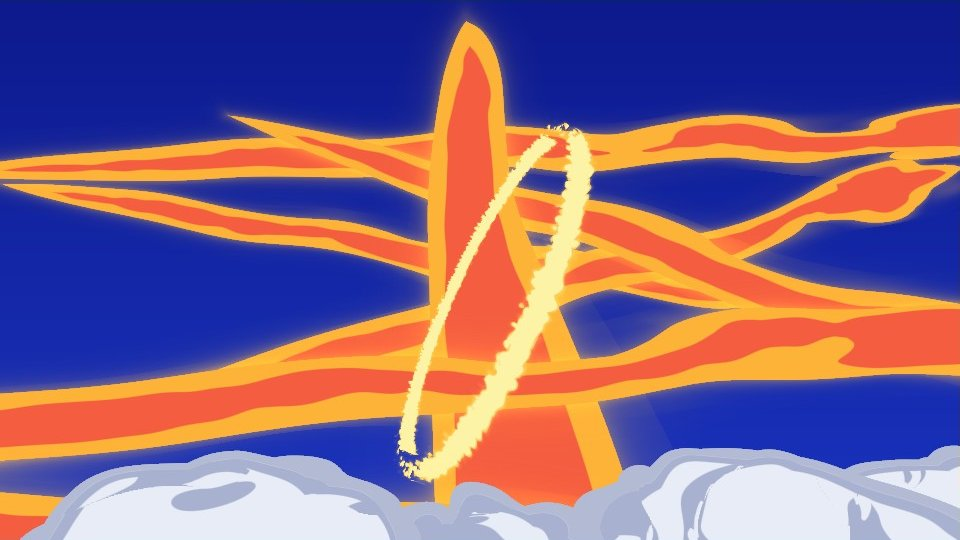
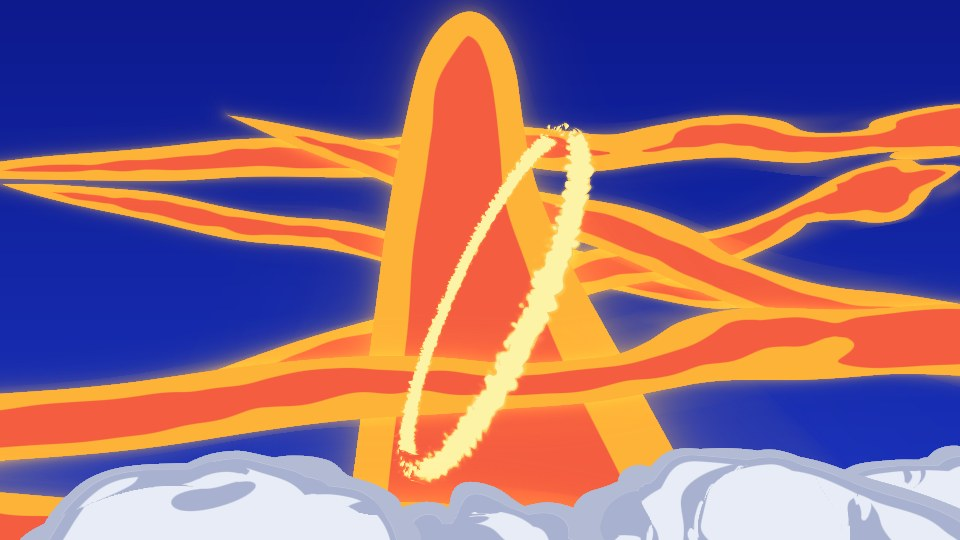
Mera anime: St. Elmo fino con lenguas hacia atrás, filo del muro de Kyōkaen con lenguas de lado, fuego del cuerpo más pegado y columna del Hiken más ancha
Claude-Session: https://claude.ai/code/session_01TTf7fnrStK2iXDsozaVCTJ

Changed region(s): [[0.3438, 0.0, 0.6875, 0.6815], [0.5938, 0.7111, 0.7812, 0.9185], [0.3125, 0.7407, 0.5, 0.9481]]

diff --git a/docs/estilo-anime.md b/docs/estilo-anime.md
@@ -119,7 +119,7 @@ Paleta de cada forma cuando `VolStyle.y` es 0: bola 2 (el sol, 6), puño 1, colu
   bajan hasta el suelo en llamas: en los 2,5 últimos bloques de cada lado (y nunca más de 0,45 del medio largo del
   muro entero) la altura cae en rampa recta hasta casi nada, así el lado se ve inclinado y en llamas, como el filo del
   muro en el 2:46 (con la rampa curva, que caía de golpe al final, el lado de un muro alto se veía como un corte
-  vertical; y con una rampa larga en un muro corto, el muro entero era un triángulo). Si `VolStyle.z` es 0, el tramo se dibuja como un muro entero él solo. No hace
+  vertical; y con una rampa larga en un muro corto, el muro entero era un triángulo). Además el filo no es una raya: las lenguas del lado llegan hasta el extremo y entre una y otra el filo queda hasta 1,6 bloques más adentro (nunca más de 0,18 del medio largo), con crestas que suben, y abajo el muro se mete un poco (0,08 por bloque bajo el 85 % del alto, nunca más de 0,10 del medio largo), así el lado se inclina hacia fuera al subir y saca lenguas de lado como en el 2:46 (antes, visto de frente, el lado de un muro alto era un corte recto de arriba abajo); ). Más allá del extremo no queda nada (antes, una tira dorada a ras de suelo). Si `VolStyle.z` es 0, el tramo se dibuja como un muro entero él solo. No hace
   falta que los tramos se monten: cada uno llega justo hasta su vecino. Visto de cerca (2:44, con cada vuelta de
   0,9 bloques ocupando más de 0,16 radianes desde la cámara, es decir a menos de unos 5 bloques), las láminas de
   fuera llevan además otra tanda de contornos más menudos y quebrados, como rayos pálidos sobre el dorado, y las
@@ -153,17 +153,18 @@ Paleta de cada forma cuando `VolStyle.y` es 0: bola 2 (el sol, 6), puño 1, colu
   volumen: es un dibujo plano en una lámina que contiene el eje del chorro y mira a la cámara. Una cuña dorada que
   sale de la mano con el grosor `prm.z` (en partes del final), se abre deprisa al principio y luego casi igual hasta un
 radio entero (1 − (1 − v)^2,2) y acaba redonda; el ancho ondula despacio a lo largo (±18 %); por
-  los cantos de arriba y de abajo, olas: brazos gordos que salen del canto inclinados hacia fuera de la mano y se
-  rizan hacia delante como una ola que rompe, con el hueco de cielo entre una y otra, que nacen cerca de la mano y
-  corren hacia fuera creciendo (una cada 0,5 radios de largo, entre 3 y 12 por canto, de tamaños muy distintos y más
-  finas que largas: crestas que se rizan, no bolitas de nube; las del final, más pequeñas, para que no parezca una
-  pinza). En la mano no acaba en un corte: acaba redonda (la mano la tapa). Dorada por dentro, pálida `#fdeaa3` junto
+  los cantos de arriba y de abajo, lenguas anchas y redondas, tan anchas como largas, que salen del canto echadas hacia
+  atrás (lejos de la mano) y se curvan un poco, fundidas con el cuerpo, con un hueco de cielo entre una y otra, que
+  nacen cerca de la mano y corren hacia fuera creciendo (una cada 0,9 radios de largo, entre 3 y 12 por canto, de
+  tamaños distintos), como las llamas del 2:09-2:10 (antes eran brazos finos y largos rizados en gancho: con el chorro
+  fino parecían una espina de pescado o una oruga). El final ya no se hincha: acaba redondo con el mismo ancho. En la mano no acaba en un corte: acaba redonda (la mano la tapa). Dorada por dentro, pálida `#fdeaa3` junto
   al contorno y en vetas largas y onduladas que corren a lo largo del chorro, se rizan en gancho como agua revuelta
-  (como mármol: muy torcidas, no franjas paralelas de tigre), van a trozos y se arrastran hacia fuera (antes las vetas seguían el contorno y de cerca dibujaban una lágrima). 0,65 para la banda ancha del
-  barrido (largo 9 y radio 1,15 a 1,5), que es casi igual de gruesa de punta a punta. La llama del antebrazo
+  (como mármol: muy torcidas, no franjas paralelas de tigre), van a trozos y se arrastran hacia fuera (antes las vetas seguían el contorno y de cerca dibujaban una lágrima). 0,65 para la banda del
+  barrido (largo 9 y radio 0,40 a 0,50: con 1,15 a 1,5 era el doble de gruesa que Ace y se metía en el suelo), que es casi igual de gruesa de punta a punta. La llama del antebrazo
   mientras carga (2:09) es este mismo chorro, corto, que sale de la mano hacia atrás y hacia fuera del cuerpo (largo
-  3,4, radio 1,1 y `prm.z` 0,30, y el origen un cuarto de bloque detrás de la mano: con 0,55 salía tan ancha
-  junto al cuerpo que tapaba a Ace; nunca hacia el hombro: entonces cruzaba el cuerpo y se veía una salchicha dorada
+  3,0, radio 0,42 y `prm.z` 0,35, y el origen 0,15 bloques detrás de la mano: en el 2:09 sale del grosor de la mano y
+  a un bloque de ella no pasa de medio bloque de ancho; con radio 1,1 acababa en un globo de tres bloques que tapaba a
+  Ace y se cortaba contra el suelo; nunca hacia el hombro: entonces cruzaba el cuerpo y se veía una salchicha dorada
   alrededor de Ace). Antes era el chorro recorrido, una salchicha lisa con cuatro líneas; una fila de bolas con la
   paleta 18 se veía como una oruga de discos. Referencia del banco: `docs/banco/st-elmo.jpg`.
 - **Lanza (7)**: un trazo largo y limpio que se abre poco a poco desde una punta afilada, con dos rayas sueltas al
@@ -246,8 +247,9 @@ radio entero (1 − (1 − v)^2,2) y acaba redonda; el ancho ondula despacio a l
 
 El fuego que envuelve a Ace cuando arde (2:29-2:31 y 2:53-2:55). En anime no se recorre como un volumen: es un dibujo
 plano en una lámina que pasa por el eje del cuerpo y mira siempre a la cámara. Una masa dorada y lisa detrás del cuerpo
-(de 0,62 de medio ancho, más ancha que el cuerpo) de la que salen dieciséis brazos de fuego gordos (tres de ellos, de
-los pies), de 1,7 a 3,2 bloques de largo, que nacen, crecen hacia fuera y hacia arriba (rizándose poco: 1,6 a 3
+(de 0,5 de medio ancho, algo más ancha que el cuerpo) de la que salen dieciséis brazos de fuego (tres de ellos, de
+los pies), de 1,1 a 2,0 bloques de largo y 0,20 a 0,32 de grueso (con 1,7 a 3,2 de largo y 0,30 a 0,46 de grueso, de
+cerca el fuego llenaba todo lo que hay detrás de Ace, tres veces más ancho que en el 2:29), que nacen, crecen hacia fuera y hacia arriba (rizándose poco: 1,6 a 3
 radianes de principio a fin; con más, al ser largos, se doblaban hacia abajo como brazos colgando), se rizan en la punta como una ola y se recogen, cada uno con su ciclo de 1,2 a 2 segundos; la orilla va en
 bultos redondos con el surco afilado entre uno y otro, hay huecos de cielo entre los brazos, y todo el contorno lleva
 por dentro una orilla pálida y blanda y por fuera un halo corto. Por dentro, unas pocas vetas pálidas onduladas que
@@ -280,7 +282,7 @@ En estilo anime:
 
 | Técnica | Paleta | Cómo es en el vídeo |
 | --- | --- | --- |
-| Hiken | 1, 16 y 14 | Un puño enorme y redondo: masa roja, borde amarillo, líneas amarillas entre los dedos. Va dibujado encima de su cuerpo de fuego, con su propio contorno (0:32). Detrás, un cuerpo de fuego que se ensancha hasta el doble del puño (un cometa, 0:34), con el amarillo muy ancho (de lado se ve casi tanto amarillo como rojo) y el borde de dentro subiendo y bajando como las llamas, bandas amarillas anchas que cruzan la masa roja a lo largo y la parten en dos o tres manchas (0:33; las pinta el sombreador, solo en el cuerpo de fuego y no en el puño) y cintas amarillas finas que se rizan alrededor. Al salir del brazo, masas rojas con manchas negras (bolas con paleta 1, 0:24). El golpe es una media bola roja y limpia con el filo amarillo (bola con paleta 16, 0:36) y, para quien queda dentro, la pantalla roja con cuñas amarillas y esquirlas negras (otra bola en el mismo sitio con paleta 1 y `VolStyle.w` de 2 a 3, que solo pone el fotograma, 0:37; ese fotograma se dibuja el último de todos los volúmenes, para que ningún otro fuego lo tape). Después quedan tres segundos y medio de lo que deja el golpe (0:38-0:41, referencia del banco en `docs/banco/final-hiken.jpg`), colocado cada fotograma de cara a quien mira: con `v` la dirección horizontal de la cámara al golpe, `r` su derecha, `g` el suelo bajo el golpe y `s` la distancia horizontal de la cámara al golpe partida por 19 (entre 0,7 y 1,2), que multiplica todas las medidas. Un tronco rojo vertical que sube del golpe (lanza con paleta 14, ancho del borde 0,30 y `prm.z` = 2, largo 30, radio 1,4, centro a 15,25 sobre el suelo, apenas inclinada); seis estelas gordas que atraviesan todo el cielo y se cruzan en X lejos del tronco, sin rayitas sueltas al lado (lanzas con paleta 14, ancho del borde 0,30 y `prm.z` = 2, todas de lado respecto a la cámara, sin giro, en este orden, dando a lo largo `r`, a lo hondo `v`, altura sobre el suelo, inclinación hacia la derecha de la cámara, largo y radio: 0, 3, 3,5, +3°, 50, 1,15 · −9, 1, 19, +26°, 44, 1,0 · −9, 4, 19, −20°, 46, 1,05 · 6, 2, 10, −6°, 48, 1,1 · 10, 5, 23, +12°, 42, 0,95 · −2, 0, 27, −4°, 52, 1,0; la segunda y la tercera forman la X de arriba a la izquierda del 0:38); un aro fino y pálido, inclinado, a media altura del tronco (anillo con paleta 11, radio 6, alto 0,3 y medio grosor 0,14, a 10 sobre el suelo, con el eje girado 65 grados respecto a la cámara y levantado 0,2 radianes); y nueve bolas de polvo blanco a ras de suelo a los lados del tronco (bolas con `prm.y` = 1, radio 1,8 a 3). Antes eran 10 chorros con rumbo al azar, tres llamas finas y un tronco por donde pasó el puño, y desde atrás se veía un revoltijo; después siete chorros gordos y rojos, apiñados en una franja, con un tronco demasiado grueso; después nueve estelas finas casi paralelas, que no se cruzaban como en el 0:38; y después siete con el centro a menos de 5 bloques del tronco y tres diagonales empinadas, que en el juego salían en estrella desde el tronco; y después siete casi tendidas con dos diagonales suaves, que con sus rayitas sueltas se veían como un fajo de espaguetis paralelos. El golpe del Hiken no se enfría en humo blanco: la bola sigue siendo fuego y se apaga pronto (ya no está cuando se ven los chorros). |
+| Hiken | 1, 16 y 14 | Un puño enorme y redondo: masa roja, borde amarillo, líneas amarillas entre los dedos. Va dibujado encima de su cuerpo de fuego, con su propio contorno (0:32). Detrás, un cuerpo de fuego que se ensancha hasta el doble del puño (un cometa, 0:34), con el amarillo muy ancho (de lado se ve casi tanto amarillo como rojo) y el borde de dentro subiendo y bajando como las llamas, bandas amarillas anchas que cruzan la masa roja a lo largo y la parten en dos o tres manchas (0:33; las pinta el sombreador, solo en el cuerpo de fuego y no en el puño) y cintas amarillas finas que se rizan alrededor. Al salir del brazo, masas rojas con manchas negras (bolas con paleta 1, 0:24). El golpe es una media bola roja y limpia con el filo amarillo (bola con paleta 16, 0:36) y, para quien queda dentro, la pantalla roja con cuñas amarillas y esquirlas negras (otra bola en el mismo sitio con paleta 1 y `VolStyle.w` de 2 a 3, que solo pone el fotograma, 0:37; ese fotograma se dibuja el último de todos los volúmenes, para que ningún otro fuego lo tape). Después quedan tres segundos y medio de lo que deja el golpe (0:38-0:41, referencia del banco en `docs/banco/final-hiken.jpg`), colocado cada fotograma de cara a quien mira: con `v` la dirección horizontal de la cámara al golpe, `r` su derecha, `g` el suelo bajo el golpe y `s` la distancia horizontal de la cámara al golpe partida por 19 (entre 0,7 y 1,2), que multiplica todas las medidas. Un tronco rojo vertical que sube del golpe (lanza con paleta 14, ancho del borde 0,30 y `prm.z` = 2, largo 30, radio 2,4, centro a 15,25 sobre el suelo, apenas inclinada; con 1,4 se veía como una aguja fina y en el 0:38 es una columna ancha); seis estelas gordas que atraviesan todo el cielo y se cruzan en X lejos del tronco, sin rayitas sueltas al lado (lanzas con paleta 14, ancho del borde 0,30 y `prm.z` = 2, todas de lado respecto a la cámara, sin giro, en este orden, dando a lo largo `r`, a lo hondo `v`, altura sobre el suelo, inclinación hacia la derecha de la cámara, largo y radio: 0, 3, 3,5, +3°, 50, 1,15 · −9, 1, 19, +26°, 44, 1,0 · −9, 4, 19, −20°, 46, 1,05 · 6, 2, 10, −6°, 48, 1,1 · 10, 5, 23, +12°, 42, 0,95 · −2, 0, 27, −4°, 52, 1,0; la segunda y la tercera forman la X de arriba a la izquierda del 0:38); un aro fino y pálido, inclinado, a media altura del tronco (anillo con paleta 11, radio 6, alto 0,3 y medio grosor 0,14, a 10 sobre el suelo, con el eje girado 65 grados respecto a la cámara y levantado 0,2 radianes); y nueve bolas de polvo blanco a ras de suelo a los lados del tronco (bolas con `prm.y` = 1, radio 1,8 a 3). Antes eran 10 chorros con rumbo al azar, tres llamas finas y un tronco por donde pasó el puño, y desde atrás se veía un revoltijo; después siete chorros gordos y rojos, apiñados en una franja, con un tronco demasiado grueso; después nueve estelas finas casi paralelas, que no se cruzaban como en el 0:38; y después siete con el centro a menos de 5 bloques del tronco y tres diagonales empinadas, que en el juego salían en estrella desde el tronco; y después siete casi tendidas con dos diagonales suaves, que con sus rayitas sueltas se veían como un fajo de espaguetis paralelos. El golpe del Hiken no se enfría en humo blanco: la bola sigue siendo fuego y se apaga pronto (ya no está cuando se ven los chorros). |
 | Kagerō | 15 y 2 | Un haz estrecho que acaba en punta, naranja con rayas rojas y el filo amarillo (chorro con radio pedido 2,2 o más, 0:02); al dar en el blanco, una nube blanca y, el primer medio segundo, bolas amarillas con el borde rojo anaranjado (bolas con paleta 2, de 1,6 a 2,4 de radio, 0:17). |
 | Higan | 11 | Cuñas amarillo pálido con el filo dorado blando: nacen en punta junto a Ace y se abren hacia delante (lanza con `prm.z` = 1, sin bola en la cabeza). |
 | Hibashira | 10, 9, 20 y 22 | Primero el remolino: un aro rojo que gira alrededor de Ace a la altura de la cintura, con llamas amarillas en el brazo (anillo con `prm.w` = 2), que va creciendo hasta ser casi todo llama amarilla pálida (`prm.w` de 2 a 2,49). Al salir la columna, quien está dentro ve la pantalla roja con llamas amarillas (1:14). Después el haz recto amarillo pálido, fino y alto (columna con radio pedido 2,1), pegado a él un muro de humo melocotón (anillo con `prm.w` = 1,25 y paleta 22) y detrás una masa roja con racimos de llamas amarillas (anillo con `prm.w` = 1,25 y paleta 20, 1:16-1:18). |
@@ -288,8 +290,8 @@ En estilo anime:
 | Hotarubi | 5 | Bolas lisas y redondas (no llamas), de 0,2 a 0,45 de radio: verdes en la orilla, casi blancas en el centro y con un halo verde suave. Una bola (forma 0) con paleta 5 sale ya así. |
 | Hidaruma | 12, 16, 3 y 19 | Sobre el que arde, unas 13 cuchillas de fuego afiladas, amarillas con el filo naranja y el centro pálido, sueltas, inclinadas hacia el mismo lado y repartidas por delante del cuerpo y a sus lados, de modo que el cuerpo se sigue viendo entre ellas (llamas con paleta 12, radio 0,14 a 0,20 y alto 1,2 a 1,7, con el borde en 0,16, 1:42). Con 22, más las del fuego que le queda prendido, en el juego salía una pared amarilla que tapaba a la víctima: mientras dura la técnica no se suman las cuchillas del fuego prendido. No hay bola roja a la vista: quien queda dentro ve la pantalla roja con llamas amarillas (una bola con paleta 16 y `VolStyle.w` de 2 a 3, que solo pone el fotograma, 1:42-1:43). Cuando prenden varios a la vez: un fogonazo pálido sobre cada uno (`VolStyle.w` en una bola con paleta 19 y radio 1,4; con la paleta 3 y radio 2 la hoguera se veía dorada y no pálida, 1:53) y después una hoguera amarillo pálido enorme que los envuelve a todos y deja adivinar sus siluetas (una bola con paleta 19 y `VolStyle.z` = 1,6, dibujada plana, 1:54-1:56; ver «Bola (0) con la paleta 19»). Dentro de la hoguera no se dibujan las cuchillas de cada víctima: se veían como un garabato naranja en medio del fuego pálido. |
 | Enjōmō | 3 | Un muro amarillo pálido que llena la pantalla. |
-| St. Elmo / Shiranui | 2, 3, 12 y 11 | Shiranui: una llama pequeña en cada mano, del tamaño de la mano (llama con paleta 2, radio 0,20 y alto 0,60, 1:59; con radio 0,32 y alto 0,95 eran más grandes que la cabeza, y una bola de radio 0,22 se veía como una diana), después los arcos naranja rojizo con el centro amarillo (2:00) y las lanzas, cometas amarillo vivo con el filo y el halo naranjas, anchos en la cabeza y en punta por detrás (lanza con `prm.z` = 1 y paleta 12, largo 4,5 y radio 0,45 a 0,55, 2:00,5-2:02). St. Elmo: mientras carga, una llama dorada de borde ondulado le sale del antebrazo hacia atrás y se va ensanchando (chorro con paleta 3 que sale de la mano hacia atrás y hacia fuera, largo 3,2, radio 1,1 y `prm.z` 0,35, 2:09; las lanzas todavía no se ven); al soltar, el brazo barre y deja una banda dorada ancha que cruza por delante de Ace (chorro con paleta 3, largo, siguiendo a la mano, 2:10); las lanzas, columnas amarillo pálido muy largas y de ancho parejo, afiladas solo en la punta (lanza con `prm.z` = 2, paleta 11, largo 11 y radio 0,38, 2:11), que se clavan en el blanco y dejan fuego bajo en el suelo (2:12). |
-| Jūjika | 7, 11, 15, 18, 21 y 3 | Primero la cruz de los dedos: un «+» pequeño de brazos finos, amarillo limón, delante de las manos cruzadas (cruz con brazo 0,35 a 0,45, paleta 7, 2:14). De ella sale un haz fino amarillo pálido, casi transparente, que llega al blanco en medio segundo con la punta brillante (lanza con `prm.z` = 2, paleta 11 y radio 0,14; con 0,06 de lado era un hilo de un píxel, 2:15-2:16); después, por el haz corre una llamarada roja con el filo naranja y amarillo, alargada, que suelta jirones rojos (chorro o bolas con paleta 15, 2:16-2:17); nace 0,9 bloques por delante de las manos, para que vista desde atrás no tape a Ace. Donde llega, la cruz grande de llamas doradas (cruz con brazo 1,8 a 2,2, paleta 18, 2:22) y enseguida un estallido dorado en estrella, sin bola en el centro: cuatro brazos grandes y largos en línea con los de la cruz (lanzas con `prm.z` = 1, largo 6 y radio 1,4; con radio 2,0 era un erizo gordo y con 1,1 y sin llamas menores, agujas finas) y ocho llamas menores y finas entre ellos, dos en cada hueco (largo 3,2, radio 0,55), todos con la paleta 21 y casi en el plano de cara a quien la lanzó, con no más de 5 grados de inclinación (2:23). No es una cúpula ni lleva el fotograma del golpe. |
+| St. Elmo / Shiranui | 2, 3, 12 y 11 | Shiranui: una llama pequeña en cada mano, del tamaño de la mano (llama con paleta 2, radio 0,20 y alto 0,60, 1:59; con radio 0,32 y alto 0,95 eran más grandes que la cabeza, y una bola de radio 0,22 se veía como una diana), después los arcos naranja rojizo con el centro amarillo (2:00) y las lanzas, cometas amarillo vivo con el filo y el halo naranjas, anchos en la cabeza y en punta por detrás (lanza con `prm.z` = 1 y paleta 12, largo 4,5 y radio 0,45 a 0,55, 2:00,5-2:02). St. Elmo: mientras carga, una llama dorada de borde ondulado le sale del antebrazo hacia atrás y se va ensanchando (chorro con paleta 3 que sale de la mano hacia atrás y hacia fuera, largo 3,0, radio 0,42 y `prm.z` 0,35, 2:09; las lanzas todavía no se ven); al soltar, el brazo barre y deja una banda dorada que cruza por delante de Ace y lo envuelve del hombro a la rodilla (chorro con paleta 3, largo 9, radio 0,40 a 0,50, siguiendo a la mano, 2:10); las lanzas, columnas amarillo pálido muy largas y de ancho parejo, afiladas solo en la punta (lanza con `prm.z` = 2, paleta 11, largo 11 y radio 0,38, 2:11), que se clavan en el blanco y dejan fuego bajo en el suelo (2:12). |
+| Jūjika | 7, 11, 15, 18, 21 y 3 | Primero la cruz de los dedos: un «+» pequeño de brazos finos, amarillo limón, delante de las manos cruzadas (cruz con brazo 0,35 a 0,45, paleta 7, 2:14). De ella sale un haz fino amarillo pálido, casi transparente, que llega al blanco en medio segundo con la punta brillante (lanza con `prm.z` = 2, paleta 11 y radio 0,14; con 0,06 de lado era un hilo de un píxel, 2:15-2:16); después, de los dedos sale hacia el blanco una llamarada roja con el centro naranja, alargada, que suelta jirones rojos (chorro con paleta 2 que nace 0,3 bloques por delante de las manos y crece de 0,6 a 2,2 de largo en 0,25 s, radio 0,5 y `prm.z` 0,30, 2:16,5-2:17; antes eran bolas con paleta 15 que corrían por el haz y en la captura se veían como una bola). Donde llega, la cruz grande de llamas doradas (cruz con brazo 1,8 a 2,2, paleta 18, 2:22) y enseguida un estallido dorado en estrella, sin bola en el centro: cuatro brazos grandes y largos en línea con los de la cruz (lanzas con `prm.z` = 1, largo 6 y radio 1,4; con radio 2,0 era un erizo gordo y con 1,1 y sin llamas menores, agujas finas) y ocho llamas menores y finas entre ellos, dos en cada hueco (largo 3,2, radio 0,55), todos con la paleta 21 y casi en el plano de cara a quien la lanzó, con no más de 5 grados de inclinación (2:23). No es una cúpula ni lleva el fotograma del golpe. |
 | Cuerpo en llamas | 3 | Una masa dorada y lisa con brazos de fuego rizados, la orilla en bultos, huecos de cielo y el filo pálido y blando, que sube un bloque o más por encima de la cabeza y sale un bloque a cada lado; el cuerpo se ve entero delante (2:29). Es un dibujo plano de cara a la cámara (ver «Forma nueva: 9, AURA»). Un volumen AURA (forma 9, radio 0,55, alto 2,2 y fuerza 1; con radio 0,45, alto 1,9 y fuerza 0,6 era una funda pequeña) en vez de las llamas sueltas de hombros, brazos y espalda. `prm.w` es una fase fija por jugador, no un reloj. |
 | Kyōkaen | 3 | Una cortina dorada, plana y alta, con llamas en punta por arriba y en los extremos, franjas pálidas difusas y líneas pálidas quebradas por dentro (2:46); de cerca, sobre todo rayos pálidos quebrados sobre el dorado (2:44). Los tramos de terreno llano seguidos se juntan en un solo muro (ver «Muro (4)»). El vapor, blanco plano. |
 | Dai Enkai | 2 | Primero un aro fino de fuego alrededor de Ace, de bloque y medio de radio (2:58); enseguida un disco naranja plano, pegado al suelo, con el centro liso, dos aros amarillos gordos en la mitad de fuera y la orilla naranja en llamitas pequeñas, de unos tres bloques y medio de radio, con Ace de pie en el centro y sin hueco a sus pies (anillo con `prm.w` = 0, radio 1,0, medio grosor 1,5 y alto 0,35, 2:59; con el grosor igual al radio quedaba un agujero en el centro). Después crece y se levantan las llamas rojas y amarillas con el centro pálido. |
